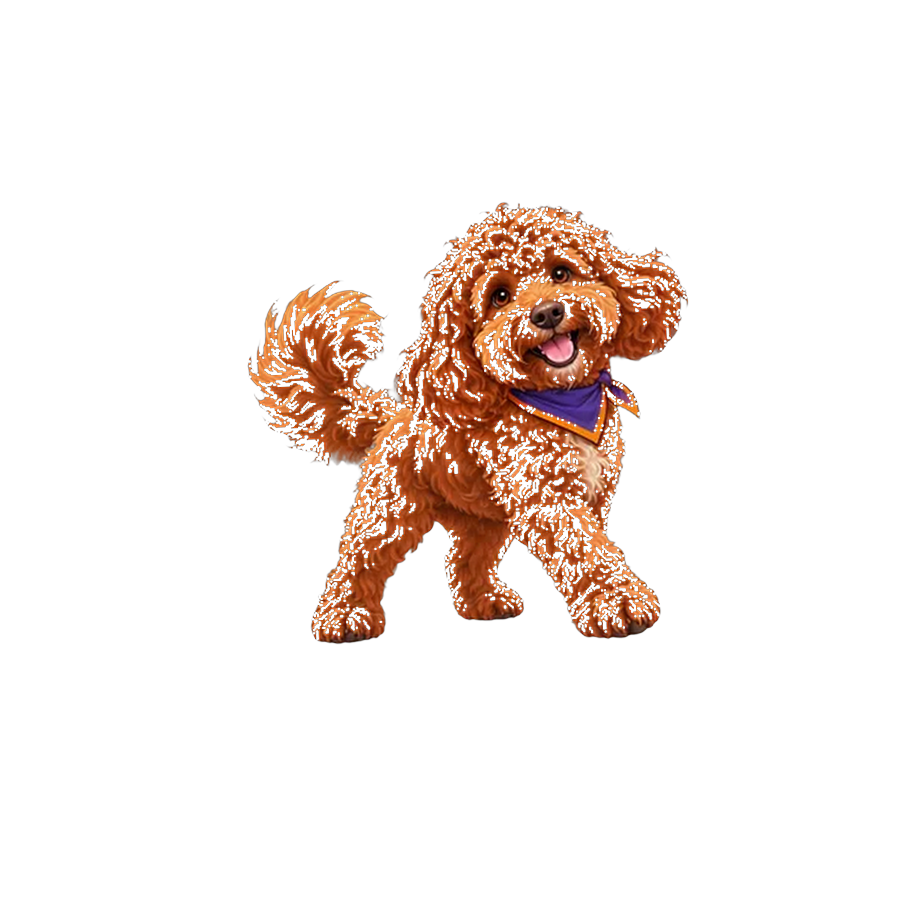
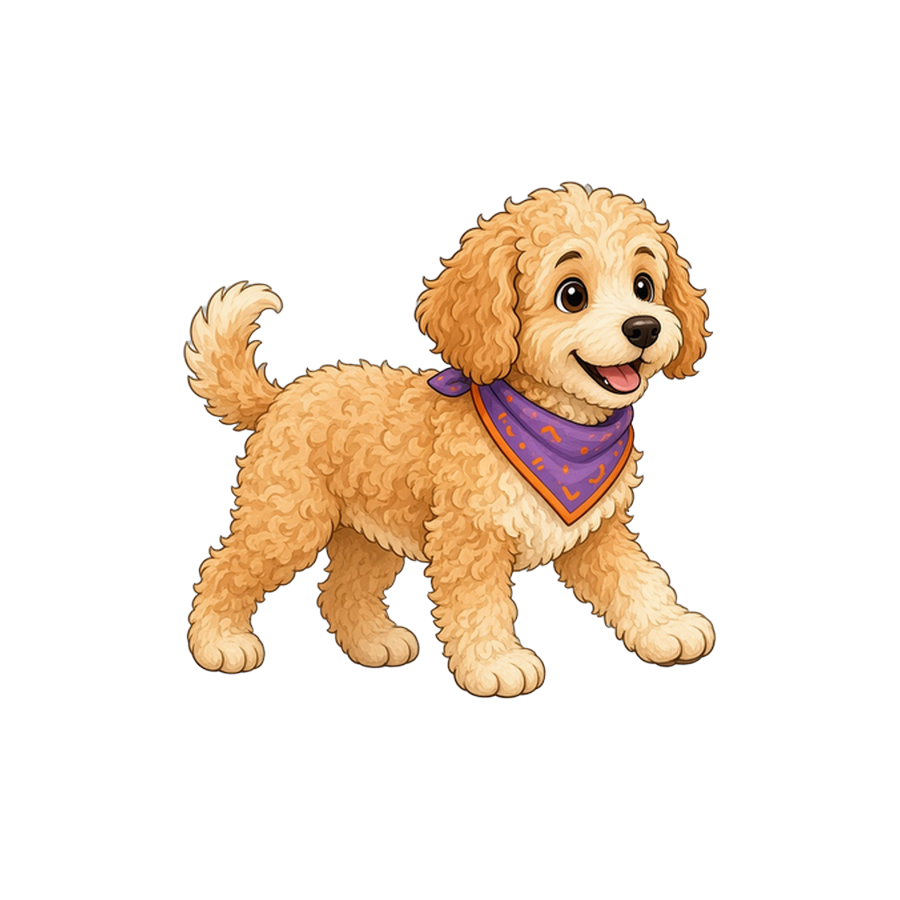
fix(marley): tydeligere wag/walk frames + travel (act2)
Logre swaps wag-a/b (~140ms) with bob + x sway; Løb uses walk-a/b
plus a larger oval path. Idle roam walk segments keep walk frames;
wag holds animate too. Cache-bust act2. Do not touch plus-penalhus.

Changed region(s): [[0.1867, 0.1867, 0.8089, 0.7778]]

diff --git a/marley-pet.js b/marley-pet.js
@@ -2,12 +2,14 @@
 (() => {
   "use strict";
 
-  const CACHE = "20261007-act1";
+  const CACHE = "20261007-act2";
   const BASE = "assets/figurer/marley-pet/";
   const POSES = {
     stand: BASE + "stand.png?v=" + CACHE,
     walkA: BASE + "walk-a.png?v=" + CACHE,
     walkB: BASE + "walk-b.png?v=" + CACHE,
+    wagA: BASE + "wag-a.png?v=" + CACHE,
+    wagB: BASE + "wag-b.png?v=" + CACHE,
     sit: BASE + "sit.png?v=" + CACHE,
     lie: BASE + "lie.png?v=" + CACHE
   };
@@ -205,6 +207,9 @@
     function poseSrc(p, walking) {
       if (p === "sit" || p === "bed") return POSES.sit;
       if (p === "lie" || p === "sleep") return POSES.lie;
+      if (p === "wag") {
+        return walkFrame % 2 === 0 ? POSES.wagA : POSES.wagB;
+      }
       if (walking || p === "walk") {
         return walkFrame % 2 === 0 ? POSES.walkA : POSES.walkB;
       }
@@ -333,6 +338,15 @@
         pose = "walk";
         scale = 1;
         tilt = 0;
+      } else if (pose === "wag" || seg.pose === "wag") {
+        if (now - walkFrameAt >= WAG_FRAME_MS) {
+          walkFrame = (walkFrame + 1) % 2;
+          walkFrameAt = now;
+        }
+        bob = 16 * Math.sin(((now - segStart) / 140) * Math.PI);
+        tilt = Math.sin(((now - segStart) / 160) * Math.PI) * 6;
+        pose = "wag";
+        scale = 1;
       } else {
         bob = 0;
       }
@@ -349,9 +363,14 @@
       } else {
         const hx = seg.hold ? seg.hold.x : x;
         const hy = seg.hold ? seg.hold.y : y;
-        x = clamp(hx, X_MIN, X_MAX);
+        // Idle wag hold: slight x sway so it never reads as a still photo
+        if (pose === "wag" || seg.pose === "wag") {
+          x = clamp(hx + Math.sin(((now - segStart) / 280) * Math.PI) * 36, X_MIN, X_MAX);
+        } else {
+          x = clamp(hx, X_MIN, X_MAX);
+        }
         y = hy;
-        tilt = typeof seg.tilt === "number" ? seg.tilt : 0;
+        tilt = typeof seg.tilt === "number" ? seg.tilt : tilt;
         pose = seg.pose || (seg.name === "sniff" ? "sniff" : pose);
         if (seg.face) face = seg.face;
         scale = 1;
@@ -379,12 +398,12 @@
         x = HOME.x;
         y = HOME.y;
         face = 1;
-        pose = "walk";
+        pose = "wag";
         scale = 1;
         tilt = 0;
         walkFrame = 0;
         walkFrameAt = performance.now();
-        setSprite(POSES.walkA);
+        setSprite(POSES.wagA);
       } else if (kind === "celebrate") {
         x = HOME.x;
         y = HOME.y;
@@ -479,8 +498,7 @@
 
       if (r.kind === "wag") {
         if (elapsed < 2400) {
-          const frameMs = WAG_FRAME_MS;
-          if (now - walkFrameAt >= frameMs) {
+          if (now - walkFrameAt >= WAG_FRAME_MS) {
             walkFrame = (walkFrame + 1) % 2;
             walkFrameAt = now;
           }
@@ -488,8 +506,8 @@
           tilt = Math.sin(((now - r.t0) / 140) * Math.PI) * 10;
           x = HOME.x + Math.sin(((now - r.t0) / 220) * Math.PI) * 70;
           y = HOME.y;
-          pose = "walk";
-          setSprite(poseSrc("walk", true));
+          pose = "wag";
+          setSprite(poseSrc("wag", false));
         } else {
           endReactionToRoam();
         }
@@ -563,17 +581,17 @@
       if (r.kind === "run") {
         if (elapsed < 3200) {
           const u = elapsed / 3200;
-          // Full oval lap — clear left/right travel on small screens
+          // Full oval lap — clear left/right travel (walk alone feels still)
           const ang = u * Math.PI * 2;
-          x = clamp(HOME.x + Math.cos(ang) * 200, X_MIN, X_MAX);
-          y = HOME.y + Math.sin(ang) * 48;
-          face = Math.sin(ang) >= 0 ? 1 : -1;
+          x = clamp(HOME.x + Math.cos(ang) * 240, X_MIN, X_MAX);
+          y = HOME.y + Math.sin(ang) * 56;
+          face = Math.cos(ang) >= 0 ? 1 : -1;
           pose = "walk";
           if (now - walkFrameAt >= RUN_FRAME_MS) {
             walkFrame = (walkFrame + 1) % 2;
             walkFrameAt = now;
           }
-          bob = 14 * Math.sin(((now - r.t0) / 110) * Math.PI);
+          bob = 16 * Math.sin(((now - r.t0) / 100) * Math.PI);
           setSprite(poseSrc("walk", true));
         } else {
           endReactionToRoam();
@@ -707,7 +725,7 @@
         return;
       }
 
-      // Logre: always restart a visible wag (walk-a/b + bob) — never a no-op
+      // Logre: always restart visible wag (wag-a/b + bob + x sway) — never a no-op
       if (n === "wag") {
         interruptTo("wag");
         return;
@@ -788,21 +806,53 @@
         }
       }
 
-      function startWalkSwap(ms, duration, doneState) {
+      function startPoseSwap(opts) {
         clearPoseTimer();
+        const ms = opts.ms;
+        const duration = opts.duration;
+        const doneState = opts.doneState || "wag";
+        const srcA = opts.srcA;
+        const srcB = opts.srcB;
+        const poseName = opts.pose || "walk";
+        const travel = !!opts.travel;
+        const sway = !!opts.sway;
         let f = 0;
-        pose = "walk";
-        setSprite(POSES.walkA);
+        let step = 0;
+        pose = poseName;
+        x = HOME.x;
+        y = HOME.y;
+        bob = 0;
+        tilt = 0;
+        setSprite(srcA);
         applyTransform();
         const t0 = Date.now();
         poseTimer = setInterval(() => {
           if (disposed || paused) return;
           f = 1 - f;
-          setSprite(f ? POSES.walkB : POSES.walkA);
-          if (Date.now() - t0 >= duration) {
+          step++;
+          setSprite(f ? srcB : srcA);
+          const elapsed = Date.now() - t0;
+          if (travel) {
+            // Reduced-motion still needs visible x-travel on Løb
+            const ang = (elapsed / duration) * Math.PI * 2;
+            x = clamp(HOME.x + Math.cos(ang) * 180, X_MIN, X_MAX);
+            y = HOME.y + Math.sin(ang) * 36;
+            face = Math.cos(ang) >= 0 ? 1 : -1;
+            bob = 10 * Math.sin(step * 0.9);
+          } else if (sway) {
+            x = HOME.x + Math.sin(elapsed / 220) * 50;
+            bob = 14 * Math.sin(step * 0.8);
+            tilt = Math.sin(step * 0.7) * 8;
+          }
+          applyTransform();
+          if (elapsed >= duration) {
             clearPoseTimer();
-            state = doneState || "wag";
+            state = doneState;
             pose = "stand";
+            x = HOME.x;
+            y = HOME.y;
+            bob = 0;
+            tilt = 0;
             setSprite(POSES.stand);
             setLabel(state === "wag" ? "wag" : state);
             applyTransform();
@@ -827,12 +877,28 @@
           state = n === "roam" ? "wag" : n;
           setLabel(n === "roam" ? "wag" : n === "celebrate" ? "celebrate" : n);
           if (n === "wag" || n === "roam") {
-            startWalkSwap(WAG_FRAME_MS, 2400, "wag");
+            startPoseSwap({
+              ms: WAG_FRAME_MS,
+              duration: 2400,
+              doneState: "wag",
+              srcA: POSES.wagA,
+              srcB: POSES.wagB,
+              pose: "wag",
+              sway: true
+            });
             emit("wag");
             return;
           }
           if (n === "run") {
-            startWalkSwap(RUN_FRAME_MS, 3200, "wag");
+            startPoseSwap({
+              ms: RUN_FRAME_MS,
+              duration: 3200,
+              doneState: "wag",
+              srcA: POSES.walkA,
+              srcB: POSES.walkB,
+              pose: "walk",
+              travel: true
+            });
             emit("run");
             return;
           }

diff --git a/index.html b/index.html
@@ -60,7 +60,7 @@
   <link rel="stylesheet" href="local-results.css?v=20260930-1">
   <link rel="stylesheet" href="marley-addition.css?v=20261006-treats1">
   <link rel="stylesheet" href="plus-penalhus.css?v=20261007-obbe2">
-  <link rel="stylesheet" href="marley.css?v=20261007-act1">
+  <link rel="stylesheet" href="marley.css?v=20261007-act2">
 </head>
 <body>
   <main id="app" class="app-shell" aria-live="polite">
@@ -82,7 +82,7 @@
   <script src="fraction-lesson.js?v=20260920-fractions-public" defer></script>
   <script src="fraction-add-subtract.js?v=20260920-fractions-public" defer></script>
   <script src="fraction-obbe.js?v=20260919-obbe-fractions1" defer></script>
-  <script src="marley.js?v=20261007-act1" defer></script>
+  <script src="marley.js?v=20261007-act2" defer></script>
   <script src="pizza-friends.js?v=20261006-friends-public1" defer></script>
   <script src="marley-addition.js?v=20261006-treats1" defer></script>
   <script src="plus-penalhus.js?v=20261007-obbe2" defer></script>

diff --git a/marley.js b/marley.js
@@ -1,7 +1,7 @@
 (() => {
   "use strict";
   const KEY = "jacobmatematik-marley-jacob-v1";
-  const CACHE = "20261007-act1";
+  const CACHE = "20261007-act2";
   const items = [
     { id: "bee", name: "Humlebikostume", price: 20, icon: "🐝", slot: "body" },
     { id: "hat", name: "Festhat", price: 8, icon: "🎉", slot: "head" },

diff --git a/assets/figurer/marley-pet/README.md b/assets/figurer/marley-pet/README.md
@@ -1,10 +1,11 @@
-# Marley pet poses (M2a)
+# Marley pet poses (M2a / act2)
 
-Sources: `/workspace/marley/ai-out/` (G&M rembg cutouts).
+Sources: `/workspace/marley/ai-out/marley-pet/` (G&M rembg cutouts).
 
 | File | Role |
 |------|------|
 | stand.png / marley-cutout.png | default body |
-| walk-a.png, walk-b.png | walk frame swap |
+| walk-a.png, walk-b.png | walk / Løb frame swap (+ x-travel) |
+| wag-a.png, wag-b.png | Logre / idle wag swap (~140ms) |
 | sit.png, lie.png | sit / lie / bed / sleep |
 | sunglasses.png | eyes overlay (~28% down bbox) |
